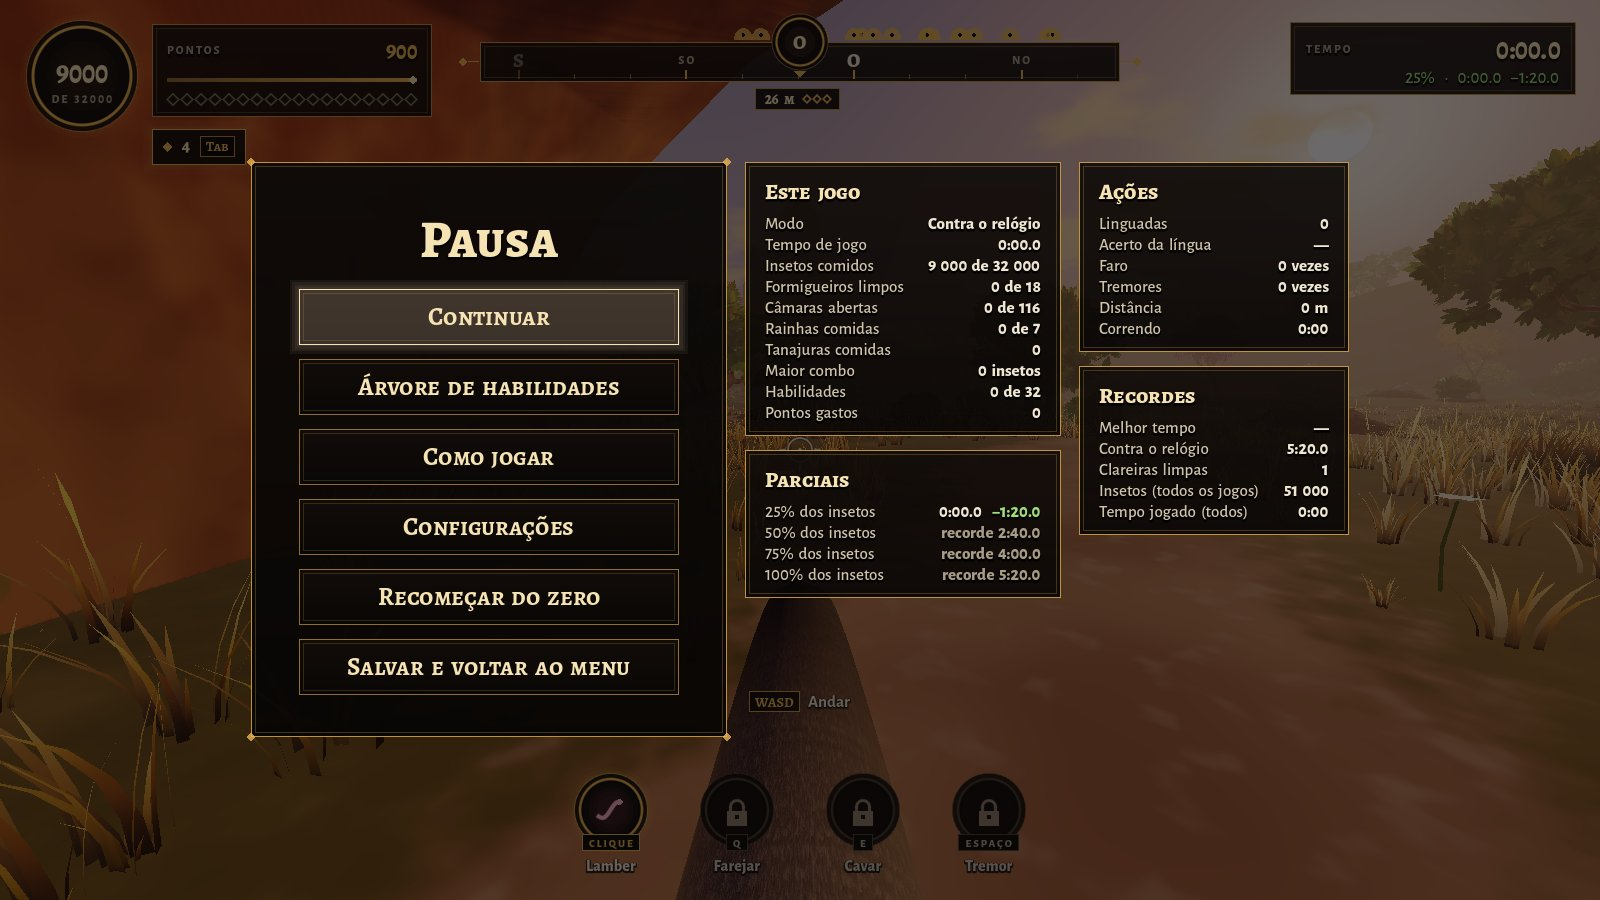
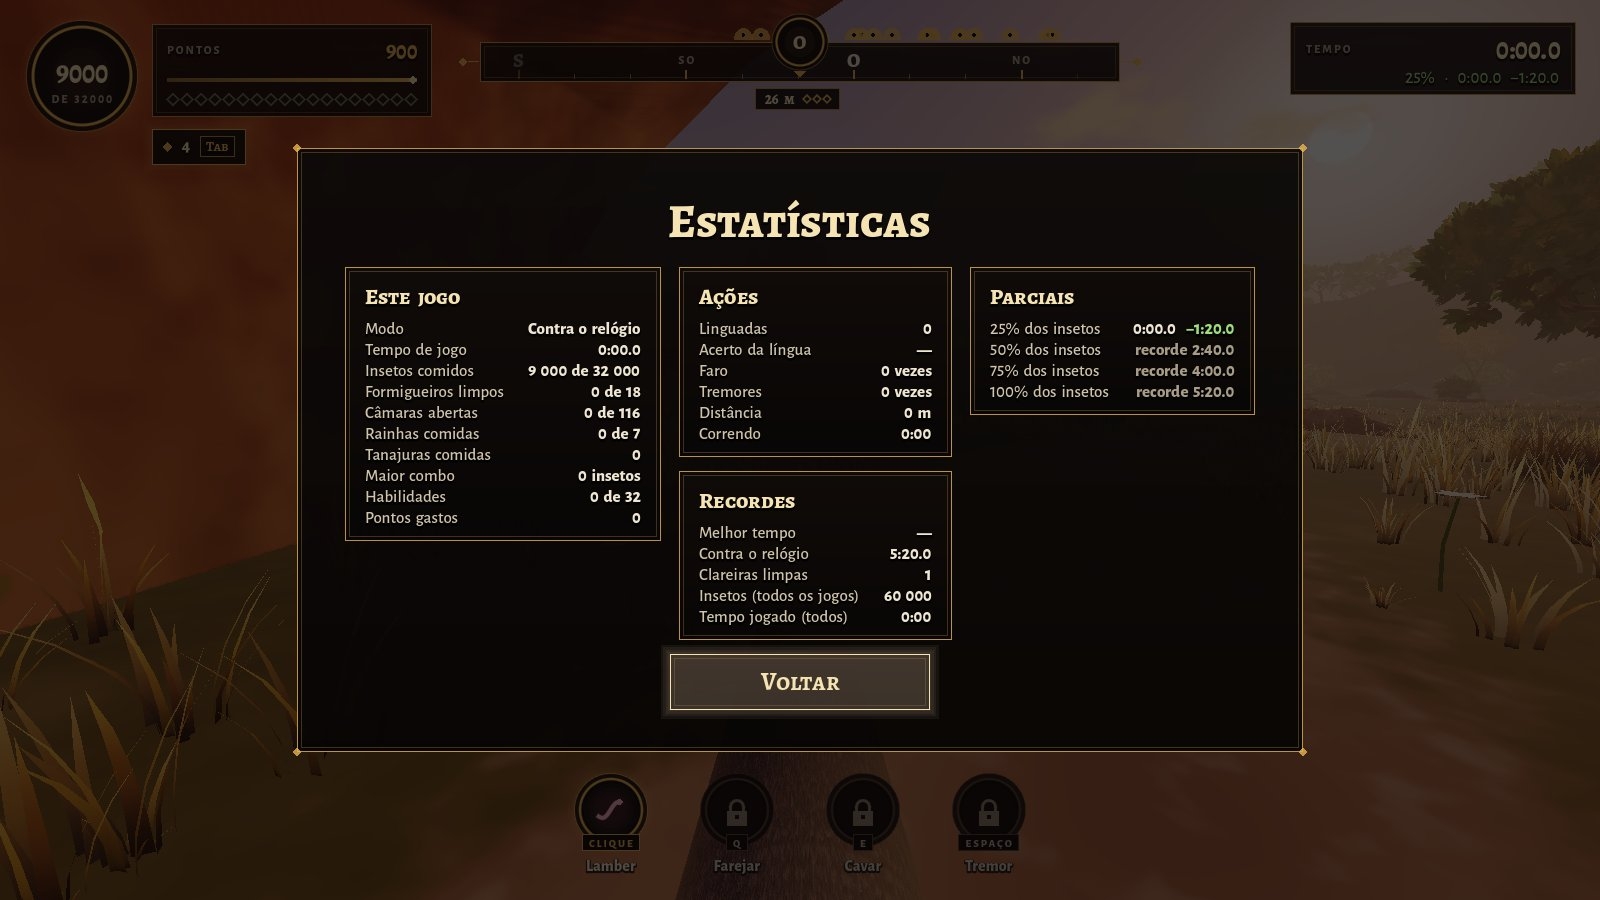
Estatísticas viram um botão da pausa, com tela própria
A pausa volta a ser a coluna de botões no meio da tela.

Claude-Session: https://claude.ai/code/session_01PK3zBhGKGNdhTPcPbN78xy

diff --git a/README.md b/README.md
@@ -18,7 +18,7 @@ produção, os protótipos e as decisões, num lugar só.
 | ![Formigas passeando em volta de uma câmara no meio do campo, muitas carregando folhas](docs/screenshots/passeio.jpg) | ![Um formigueiro grande desmanchado: o buraco com a rainha no fundo, cheio de formigas](docs/screenshots/rainha.jpg) |
 | ![HUD com cartões de conquista, o resultado do faro e as dicas de controle](docs/screenshots/hud.jpg) | ![Mapa no TAB, colorido onde você já andou](docs/screenshots/mapa.jpg) |
 | ![Árvore de habilidades, na aba ao lado do mapa](docs/screenshots/arvore.jpg) | ![Acordando na caverna, com o cupinzeiro gigante lá longe](docs/screenshots/caverna.jpg) |
-| ![Mapa com os 18 formigueiros e os insetos que faltam em cada um](docs/screenshots/mapa-18-formigueiros.jpg) | ![Estatísticas na pausa (Esc)](docs/screenshots/estatisticas-pausa.jpg) |
+| ![Mapa com os 18 formigueiros e os insetos que faltam em cada um](docs/screenshots/mapa-18-formigueiros.jpg) | ![Estatísticas, abertas pelo botão da pausa (Esc)](docs/screenshots/estatisticas-pausa.jpg) |
 | ![Modo contra o relógio: cronômetro e parcial no canto](docs/screenshots/contra-o-relogio.jpg) | ![O sol antes e depois do ajuste da névoa](docs/screenshots/sol-antes-depois.jpg) |
 
 > Capturas feitas em um servidor sem placa de vídeo (renderização por software).
@@ -97,7 +97,7 @@ uma vez".
   faltam em cada formigueiro já visto**, as câmaras que você já viu, a caverna
   e você; passe o mouse num formigueiro para ver a área dele. Clique direito
   põe um **marcador**, que aparece na bússola com a distância.
-- **Estatísticas** (na pausa, `Esc`, e na tela do fim): os números do jogo
+- **Estatísticas** (botão na pausa, `Esc`, e na tela do fim): os números do jogo
   (insetos, formigueiros, câmaras, rainhas, maior combo, linguadas e acerto,
   distância andada...), as parciais do contra o relógio e os recordes de todos
   os jogos.

diff --git a/docs/DESIGN.md b/docs/DESIGN.md
@@ -342,7 +342,7 @@ Feito, seguindo as decisões:
    Fechada, Insetos, Marcador). Cada formigueiro já visto mostra quantos
    insetos faltam nele. Clique direito (ou Y no controle) põe um marcador, que
    aparece na bússola. O que foi explorado e o marcador vão no jogo salvo.
-18. **Estatísticas** (na pausa, ao lado dos botões, e na tela do fim): os números deste jogo, as ações
+18. **Estatísticas** (um botão na pausa abre a tela delas; também aparecem na tela do fim): os números deste jogo, as ações
    (linguadas e acerto, faro, tremores, distância, tempo correndo), as parciais
    do contra o relógio e os recordes de todos os jogos.
 19. **Contra o relógio:** escolhido ao começar um jogo novo. Cronômetro com
@@ -618,7 +618,7 @@ andar entre ninhos, habilidades e jogo salvo) e boa parte da M3 (o Cerrado com
 | 05/11/2026 | Lagoas | Duas, redondas | Quatro, de formas irregulares e tamanhos diferentes, sem simetria |
 | 05/11/2026 | Jogos salvos | Um | Até 3, com Continuar (o mais recente) e a tela de Jogos salvos |
 | 05/11/2026 | Modo de jogo | Só um | Normal ou Contra o relógio (cronômetro, parciais a cada 25%, recorde próprio) |
-| 05/11/2026 | Estatísticas e conquistas | Nenhuma | Estatísticas na pausa (Esc) e na tela do fim (primeiro foram uma aba do TAB); 21 conquistas preparadas, escondidas na demo |
+| 05/11/2026 | Estatísticas e conquistas | Nenhuma | Estatísticas num botão da pausa (Esc) e na tela do fim (primeiro foram uma aba do TAB); 21 conquistas preparadas, escondidas na demo |
 | 05/11/2026 | Controles e acessibilidade | Teclas fixas | Teclas trocáveis; Correr e Cavar segurar ou apertar; esconder o HUD; volumes de efeitos e ambiente; sensibilidade do controle |
 | 05/11/2026 | Mapa | Sem números | Insetos que faltam em cada formigueiro e um marcador (que aparece na bússola) |
 | 05/11/2026 | Textos | "formigas" | "insetos" onde vale para formigas e cupins |
